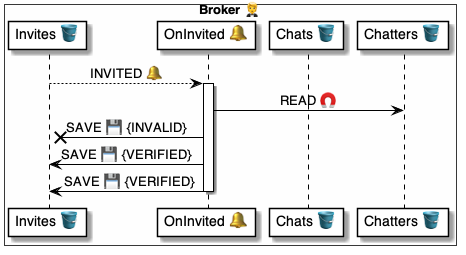
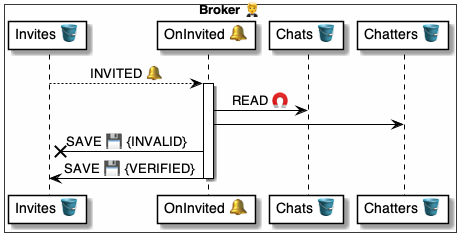
.

diff --git a/4 ⚙ Solution/20 🧑🦰 UI/Brokers 🤵/🤵📨 Broker msgs/Share 💼 Invite 💼🐌🤵/🤵 Invite 📃 handler.md b/4 ⚙ Solution/20 🧑🦰 UI/Brokers 🤵/🤵📨 Broker msgs/Share 💼 Invite 💼🐌🤵/🤵 Invite 📃 handler.md
@@ -20,23 +20,26 @@
     AllOf: Chat, Helper, Schema, Invite
     UUIDs: Chat, Invite
     Texts: Helper, Schema
-    Helper.IsDomain:
-    Schema.IsSchema:
 
-# Get the chat
-- READ >> $chat:
-    Set: Broker.Chats
-    Key: $.Msg.Chat
-    Assert: 
-        Host: $.Msg.From # Only from the host
-        .State: ACTIVE   # While the chat is active
+# Confirm it's a chatter
+- READ:
+    Set: Broker.Chatters
+    Key: 
+        Chat: $.Msg.Chat
+        Domain: $.Msg.From
 
-
-
+# Add the invite
+- SAVE|Broker.Invites:
+    Chat: $.Msg.Chat
+    Inviter: $.Msg.From
+    Invite: $.Msg.Invite
+    Helper: $.Msg.Helper
+    Schema: $.Msg.Schema
+    State: .INVITED
 ```
 
 Uses||
 |-|-
-|[Commands ⌘](<../../../../35 💬 Chats/Scripts 📃/Command ⌘.md>) | [`ASSERT`](<../../../../37 Scripts 📃/📃 Commands ⌘/⌘ for holders 🧠/ASSERT 🚦/🚦 ASSERT ⌘ cmd.md>) [`CONFIRM`](<../../../../37 Scripts 📃/📃 Prompts 🤔/🤔 Input ✏ prompts/CONFIRM 👍/CONFIRM 👍 prompt.md>) [`READ`](<../../../../37 Scripts 📃/📃 Commands ⌘/⌘ for datasets 🪣/READ 🧲/🧲 READ 📃 script.md>) [`SAVE`](<../../../../37 Scripts 📃/📃 Commands ⌘/⌘ for datasets 🪣/SAVE 💾/💾 SAVE ⌘ cmd.md>) [`TRANSLATE`](<../../../../41 🎭 Domain Roles/Hosts 🤗/🤗⌘ Host cmds/TRANSLATE 🈯/🈯 TRANSLATE ⌘ cmd.md>) [`VERIFY`](<../../../../37 Scripts 📃/📃 Commands ⌘/⌘ for messages 📨/VERIFY 🔐/🔐 VERIFY ⌘ cmd.md>)
-|[Datasets 🪣](<../../../../30 🧩 Data/Datasets 🪣/🪣 Dataset.md>) | [`Broker.Chats`](<../../🤵🪣 Broker tables/Chats 💬 table/🪣 Chats/🤵 Broker.Chats 🪣 table.md>) [`Broker.Chatters`](<../../🤵🪣 Broker tables/Chatters 👥 table/🪣 Chatters/🤵 Broker.Chatters 🪣 table.md>)
+|[Commands ⌘](<../../../../35 💬 Chats/Scripts 📃/Command ⌘.md>) | [`ASSERT`](<../../../../37 Scripts 📃/📃 Commands ⌘/⌘ for holders 🧠/ASSERT 🚦/🚦 ASSERT ⌘ cmd.md>) [`READ`](<../../../../37 Scripts 📃/📃 Commands ⌘/⌘ for datasets 🪣/READ 🧲/🧲 READ 📃 script.md>) [`SAVE`](<../../../../37 Scripts 📃/📃 Commands ⌘/⌘ for datasets 🪣/SAVE 💾/💾 SAVE ⌘ cmd.md>)  [`VERIFY`](<../../../../37 Scripts 📃/📃 Commands ⌘/⌘ for messages 📨/VERIFY 🔐/🔐 VERIFY ⌘ cmd.md>)
+|[Datasets 🪣](<../../../../30 🧩 Data/Datasets 🪣/🪣 Dataset.md>) | [`Broker.Chatters`](<../../🤵🪣 Broker tables/Chatters 👥 table/🪣 Chatters/🤵 Broker.Chatters 🪣 table.md>) [`Broker.Invites`](<../../🤵🪣 Broker tables/Invites 🤲 table/🪣 Invites/🤵 Broker.Invites 🪣 table.md>)
 |

diff --git a/4 ⚙ Solution/20 🧑🦰 UI/Brokers 🤵/🤵🪣 Broker tables/Invites 🤲 table/🪣🧱 1 Invited 🔔/🤵 OnInviteInvited 🔔 handler.md b/4 ⚙ Solution/20 🧑🦰 UI/Brokers 🤵/🤵🪣 Broker tables/Invites 🤲 table/🪣🧱 1 Invited 🔔/🤵 OnInviteInvited 🔔 handler.md
@@ -16,8 +16,10 @@
 ## Script
 
 ```yaml
-📃 OnInviteInvited:
+📃 OnInvited:
 
-
+Assert: 
+        Host: $.Msg.From # Only from the host
+        .State: ACTIVE   # While the chat is active
 ```
 Uses: [`RUN`](<../../../../../37 Scripts 📃/📃 Commands ⌘/⌘ for control ▶/RUN 🏃/🏃 RUN ⌘ cmd.md>) [`SAVE`](<../../../../../37 Scripts 📃/📃 Commands ⌘/⌘ for datasets 🪣/SAVE 💾/💾 SAVE ⌘ cmd.md>) 

diff --git a/4 ⚙ Solution/30 🧩 Data/Datasets 🪣/🪣🛢 Itemized datasets/Item 🛢 State.md b/4 ⚙ Solution/30 🧩 Data/Datasets 🪣/🪣🛢 Itemized datasets/Item 🛢 State.md
@@ -48,6 +48,14 @@
     ---
     <br/>
 
+1. **What if the code fails after the state change?**
+
+    To ensure consistency,
+    * state changes should be the last operation of an event handler,
+    * leaving further operations to be processed on the following state handler.
+
+    ---
+    <br/>
 
 1. **What's an alternative more compact syntax?**
 
@@ -83,3 +91,4 @@
 
     ---
     <br/>
+

diff --git a/4 ⚙ Solution/20 🧑🦰 UI/Brokers 🤵/🤵🪣 Broker tables/Invites 🤲 table/🪣🧱 3 Confirmed 🔔/🤵 OnInviteConfirmed 🔔 handler.md b/4 ⚙ Solution/20 🧑🦰 UI/Brokers 🤵/🤵🪣 Broker tables/Invites 🤲 table/🪣🧱 3 Confirmed 🔔/🤵 OnInviteConfirmed 🔔 handler.md
@@ -16,7 +16,7 @@
 ## Script
 
 ```yaml
-📃 OnInviteConfirmed:
+📃 OnConfirmed:
 
 # Add the chat participant, if not already added
 - SAVE|Broker.Chatters:

diff --git a/4 ⚙ Solution/20 🧑🦰 UI/Brokers 🤵/🤵🪣 Broker tables/Invites 🤲 table/🪣🧱 2 Verified 🔔/🤵 OnInviteVerified 🔔 handler.md b/4 ⚙ Solution/20 🧑🦰 UI/Brokers 🤵/🤵🪣 Broker tables/Invites 🤲 table/🪣🧱 2 Verified 🔔/🤵 OnInviteVerified 🔔 handler.md
@@ -15,7 +15,7 @@
 ## Script
 
 ```yaml
-📃 OnInviteVerified:
+📃 OnVerified:
 
 # Load the chat
 - CHAT:
